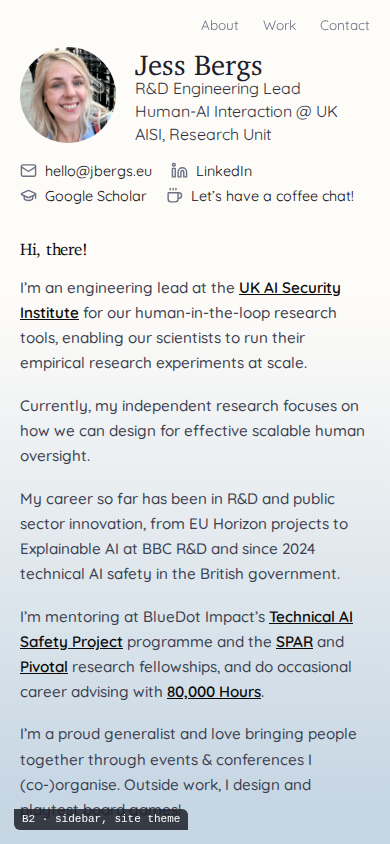
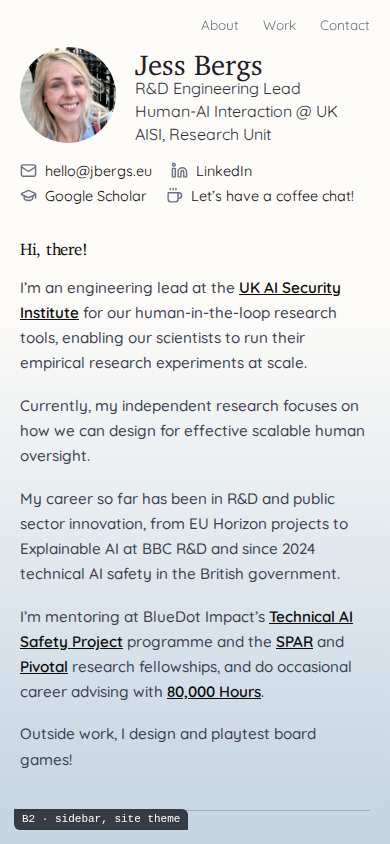
design: drop the generalist sentence from the bio

Changed region(s): [[0.0308, 0.8626, 0.9231, 0.955]]

diff --git a/docs/design/2026-11-academic-concepts/b2-sidebar-site-theme.html b/docs/design/2026-11-academic-concepts/b2-sidebar-site-theme.html
@@ -87,7 +87,7 @@
       <p>Currently, my independent research focuses on how we can design for effective scalable human oversight.</p>
       <p>My career so far has been in R&amp;D and public sector innovation, from EU Horizon projects to Explainable AI at BBC R&amp;D and since 2024 technical AI safety in the British government.</p>
       <p>I&rsquo;m mentoring at BlueDot Impact&rsquo;s <a href="https://bluedot.org/courses/technical-ai-safety-project">Technical AI Safety Project</a> programme and the <a href="https://sparai.org/">SPAR</a> and <a href="https://www.pivotal-research.org/mentors/profile/jess-bergs">Pivotal</a> research fellowships, and do occasional career advising with <a href="https://80000hours.org/">80,000 Hours</a>.</p>
-      <p>I&rsquo;m a proud generalist and love bringing people together through events &amp; conferences I (co-)organise. Outside work, I design and playtest board games!</p>
+      <p>Outside work, I design and playtest board games!</p>
     </section>
     <hr class="rule">
     <section id="upcoming">
